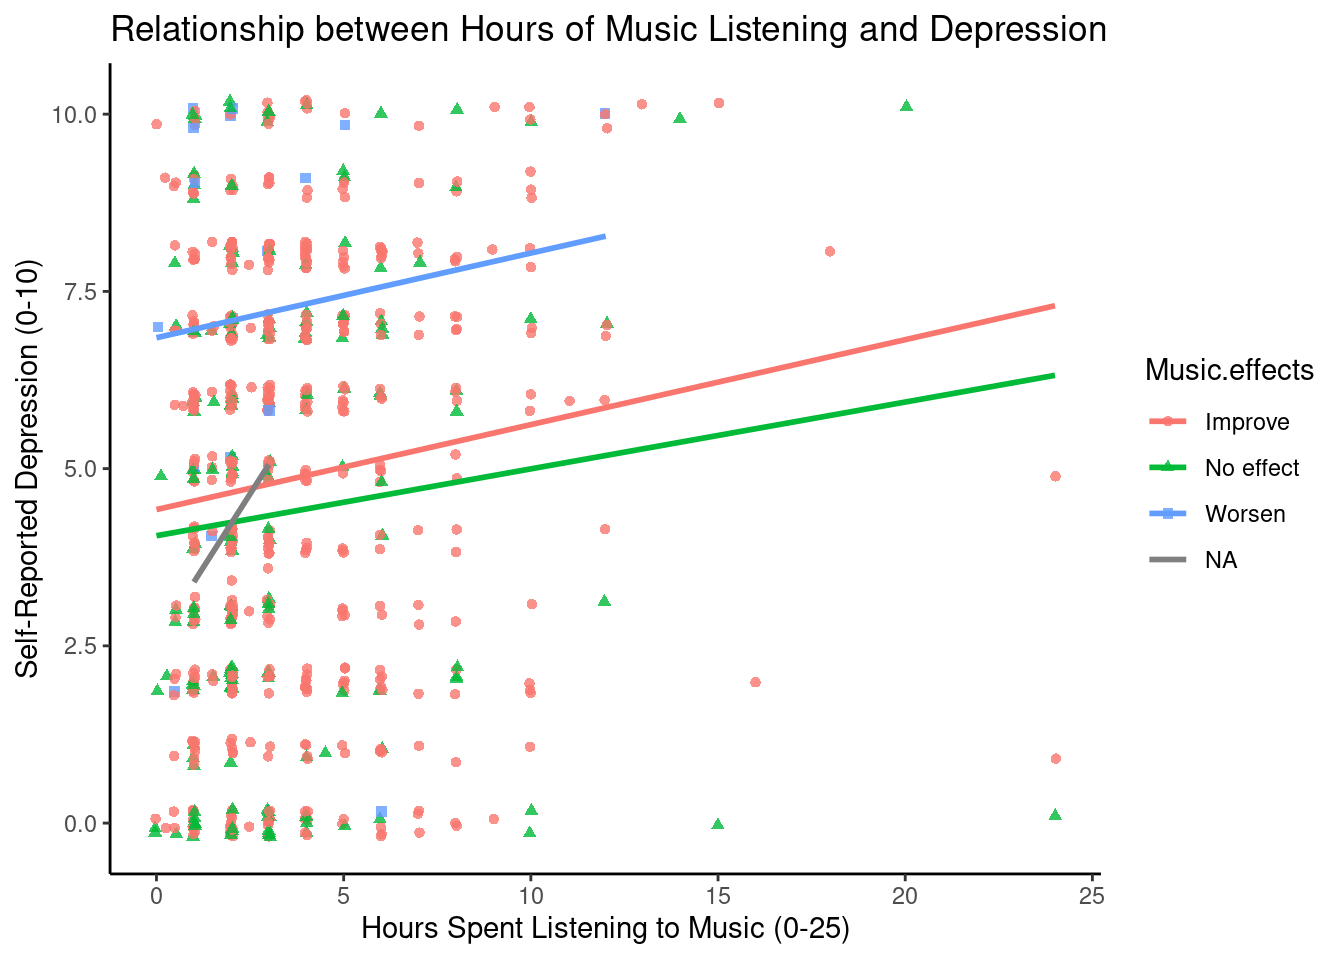
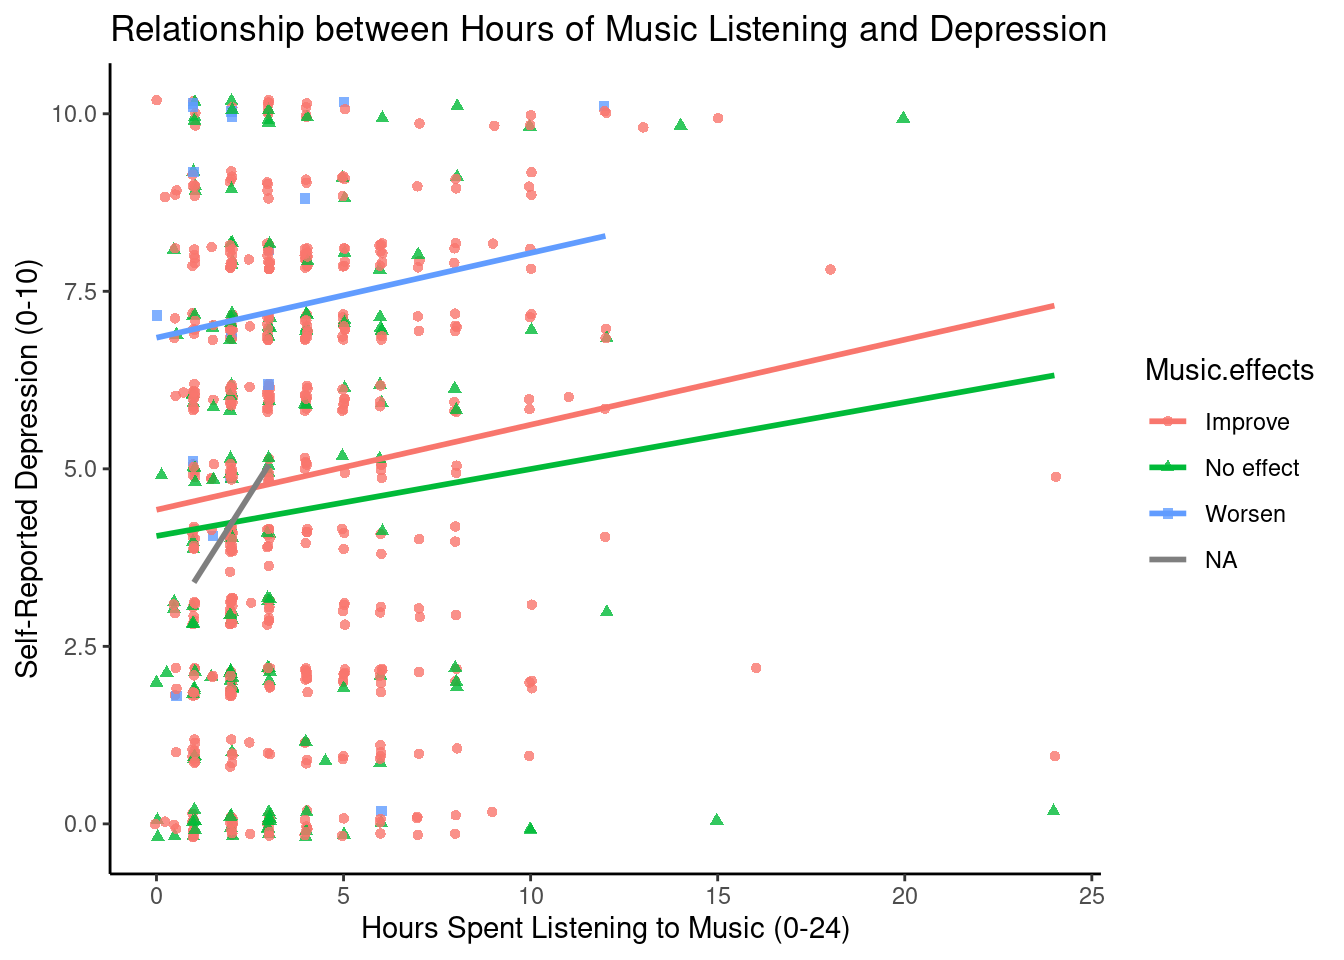
the final FINAL commit :)

diff --git a/docs/posts/my_first_post/index.html b/docs/posts/my_first_post/index.html
@@ -153,7 +153,7 @@ pre > code.sourceCode > span > a:first-child::before { text-decoration: underlin
     <div class="quarto-title column-body">
       <h1 class="title">My R Project</h1>
                                 <div class="quarto-categories">
-                <div class="quarto-category">projects</div>
+                <div class="quarto-category">data science projects</div>
               </div>
                   </div>
   </div>
@@ -193,8 +193,8 @@ pre > code.sourceCode > span > a:first-child::before { text-decoration: underlin
 <hr>
 <section id="introduction" class="level1">
 <h1>Introduction</h1>
-<p>This project is focused on the interaction between hours of music spent listening to per day and its impact on multiple mental health categories.</p>
-<p>This project explores the relationship between the amount of time people spend listening to music and various aspects of mental health, including anxiety, depression, obsessive-compulsive disorder (OCD), and insomnia. Understanding these relationships is important because music is widely accessible, non-invasive, and could serve as a simple tool for improving personal well-being. Personally, I find that music can be calming, motivating, or emotionally supportive, which inspires my interest in whether these effects are measurable across different mental health categories.</p>
+<p>This project focuses on the interaction between the hours of music spent listening to per day and its impact on multiple mental health categories.</p>
+<p>This project explores the relationship between the amount of time people spend listening to music and various aspects of mental health, including anxiety, depression, obsessive-compulsive disorder (OCD), and insomnia. Understanding these relationships is important because music is widely accessible, non-invasive, and could serve as a simple tool for improving personal well-being. I find that music can be calming, motivating, and emotionally supportive, which inspired my interest in determining whether these effects are measurable across different mental health categories.</p>
 <p><u>The following research questions will be addressed:</u></p>
 <ul>
 <li><p><em>Does the amount of time spent listening to music relate to anxiety levels?</em></p></li>
@@ -215,22 +215,22 @@ pre > code.sourceCode > span > a:first-child::before { text-decoration: underlin
 <h1>Approach</h1>
 <section id="data-set-overview" class="level3">
 <h3 class="anchored" data-anchor-id="data-set-overview">Data Set Overview:</h3>
-<p>Data was collected through Kaggle and uploaded by Catherine Rasgaitis via Google Forms. The data collection period ran from August 27, 2022 - November, 2022. There was an overall 736 number of respondents for the survey. For population, it was open to all ages and locations worldwide.</p>
-<p>Responses were gathered through an online survey posted in Reddit forums, Discord servers and other unnamed social media platforms. Physical promotion, such as posters and business cards, were also used in public spaces such as libraries and parks. The survey was designed to be brief to encourage completion, with more complex questions (e.g., beats per minute) marked as optional.</p>
+<p>Data was collected through Google Forms and uploaded to <a href="https://www.kaggle.com/datasets/catherinerasgaitis/mxmh-survey-results/data">Kaggle</a>. The data collection period ran from August 27 2022, to November 2022. There were a overall 736 number of respondents for the survey. Regarding population, it was open to all ages and locations worldwide.</p>
+<p>Responses were gathered through an online survey posted in Reddit forums, Discord servers, and other unnamed social media platforms. Physical promotion, such as posters and business cards, was also used in public spaces such as libraries and parks. The survey was designed to be brief to encourage completion, with more complex questions (e.g., beats per minute) marked as optional.</p>
 <p><u>Key Variables:</u></p>
 <ul>
 <li><p>hours.per.day - Number of hours the respondent listens to music per day</p></li>
-<li><p>Music.effects - Whether music improve, worsened, or had no affect on the respondent’s mental health conditions</p></li>
-<li><p>Anxiety - Self-reported levels of anxiety on a scale of 0-10.</p></li>
-<li><p>Depression - Self-reported levels of anxiety on a scale of 0-10.</p></li>
-<li><p>OCD - Self-reported levels of OCD on a scale of 0-10.</p></li>
-<li><p>Insomnia - Self-reported levels of insomnia on a scale of 0-10.</p>
-<p>Notes: This set of data contains self-reported levels of mental health conditions, which may contain subjective bias.</p></li>
+<li><p>Music.effects—whether music improved, worsened, or had no effect on the respondent’s mental health conditions.</p></li>
+<li><p>Anxiety—Self-reported levels of anxiety on a scale of 0-10.</p></li>
+<li><p>Depression—Self-reported levels of depression on a scale of 0-10.</p></li>
+<li><p>OCD—Self-reported levels of obsessive-compulsive disorder (OCD) on a scale of 0-10.</p></li>
+<li><p>Insomnia—Self-reported levels of insomnia on a scale of 0-10.</p>
+<p>Notes: This set of data contains self-reported levels of mental health conditions, which may include subjective bias.</p></li>
 </ul>
 </section>
 <section id="tools" class="level3">
 <h3 class="anchored" data-anchor-id="tools"><strong>Tools</strong></h3>
-<p>For this project, we used R and Quarto. Other website hosting platforms were used, such as GitHub.</p>
+<p>For this project, R and Quarto were used. Other website hosting platforms, such as Github, were used as well.</p>
 </section>
 <section id="approachpredictions" class="level3">
 <h3 class="anchored" data-anchor-id="approachpredictions"><strong>Approach/Predictions</strong></h3>
@@ -254,7 +254,7 @@ pre > code.sourceCode > span > a:first-child::before { text-decoration: underlin
 <span id="cb1-8"><a href="#cb1-8" aria-hidden="true" tabindex="-1"></a>  <span class="fu">geom_point</span>(<span class="at">alpha =</span> <span class="fl">0.8</span>, <span class="at">position =</span> <span class="st">"jitter"</span>) <span class="sc">+</span> <span class="fu">geom_smooth</span>(<span class="at">se=</span> <span class="cn">FALSE</span>, <span class="at">method =</span> <span class="st">"lm"</span>) <span class="sc">+</span> </span>
 <span id="cb1-9"><a href="#cb1-9" aria-hidden="true" tabindex="-1"></a>  <span class="fu">labs</span>(</span>
 <span id="cb1-10"><a href="#cb1-10" aria-hidden="true" tabindex="-1"></a>  <span class="at">title =</span> <span class="st">"Relationship between Hours of Music Listening and Anxiety"</span>,</span>
-<span id="cb1-11"><a href="#cb1-11" aria-hidden="true" tabindex="-1"></a>  <span class="at">x =</span> <span class="st">"Hours Spent Listening to Music (0-25)"</span>,</span>
+<span id="cb1-11"><a href="#cb1-11" aria-hidden="true" tabindex="-1"></a>  <span class="at">x =</span> <span class="st">"Hours Spent Listening to Music (0-24)"</span>,</span>
 <span id="cb1-12"><a href="#cb1-12" aria-hidden="true" tabindex="-1"></a>  <span class="at">y =</span> <span class="st">"Self-Reported Anxiety (0-10)"</span></span>
 <span id="cb1-13"><a href="#cb1-13" aria-hidden="true" tabindex="-1"></a>) <span class="sc">+</span> <span class="fu">theme_classic</span>()</span></code><button title="Copy to Clipboard" class="code-copy-button"><i class="bi"></i></button></pre></div>
 <div class="cell-output-display">
@@ -281,7 +281,7 @@ pre > code.sourceCode > span > a:first-child::before { text-decoration: underlin
 <span id="cb2-8"><a href="#cb2-8" aria-hidden="true" tabindex="-1"></a>  <span class="fu">geom_point</span>(<span class="at">alpha =</span> <span class="fl">0.8</span>, <span class="at">position =</span> <span class="st">"jitter"</span>) <span class="sc">+</span> <span class="fu">geom_smooth</span>(<span class="at">se=</span> <span class="cn">FALSE</span>, <span class="at">method =</span> <span class="st">"lm"</span>) <span class="sc">+</span> </span>
 <span id="cb2-9"><a href="#cb2-9" aria-hidden="true" tabindex="-1"></a>  <span class="fu">labs</span>(</span>
 <span id="cb2-10"><a href="#cb2-10" aria-hidden="true" tabindex="-1"></a>  <span class="at">title =</span> <span class="st">"Relationship between Hours of Music Listening and Depression"</span>,</span>
-<span id="cb2-11"><a href="#cb2-11" aria-hidden="true" tabindex="-1"></a>  <span class="at">x =</span> <span class="st">"Hours Spent Listening to Music (0-25)"</span>,</span>
+<span id="cb2-11"><a href="#cb2-11" aria-hidden="true" tabindex="-1"></a>  <span class="at">x =</span> <span class="st">"Hours Spent Listening to Music (0-24)"</span>,</span>
 <span id="cb2-12"><a href="#cb2-12" aria-hidden="true" tabindex="-1"></a>  <span class="at">y =</span> <span class="st">"Self-Reported Depression (0-10)"</span></span>
 <span id="cb2-13"><a href="#cb2-13" aria-hidden="true" tabindex="-1"></a>) <span class="sc">+</span> <span class="fu">theme_classic</span>()</span></code><button title="Copy to Clipboard" class="code-copy-button"><i class="bi"></i></button></pre></div>
 <div class="cell-output-display">
@@ -308,7 +308,7 @@ pre > code.sourceCode > span > a:first-child::before { text-decoration: underlin
 <span id="cb3-8"><a href="#cb3-8" aria-hidden="true" tabindex="-1"></a>  <span class="fu">geom_point</span>(<span class="at">alpha =</span> <span class="fl">0.8</span>, <span class="at">position =</span> <span class="st">"jitter"</span>) <span class="sc">+</span> <span class="fu">geom_smooth</span>(<span class="at">se=</span> <span class="cn">FALSE</span>, <span class="at">method =</span> <span class="st">"lm"</span>) <span class="sc">+</span></span>
 <span id="cb3-9"><a href="#cb3-9" aria-hidden="true" tabindex="-1"></a>  <span class="fu">labs</span>(</span>
 <span id="cb3-10"><a href="#cb3-10" aria-hidden="true" tabindex="-1"></a>  <span class="at">title =</span> <span class="st">"Relationship Between Hours of Music Listening and Insomnia"</span>,</span>
-<span id="cb3-11"><a href="#cb3-11" aria-hidden="true" tabindex="-1"></a>  <span class="at">x =</span> <span class="st">"Hours Spent Listening to Music (0-25)"</span>,</span>
+<span id="cb3-11"><a href="#cb3-11" aria-hidden="true" tabindex="-1"></a>  <span class="at">x =</span> <span class="st">"Hours Spent Listening to Music (0-24)"</span>,</span>
 <span id="cb3-12"><a href="#cb3-12" aria-hidden="true" tabindex="-1"></a>  <span class="at">y =</span> <span class="st">"Self-Reported Insomnia (0-10)"</span></span>
 <span id="cb3-13"><a href="#cb3-13" aria-hidden="true" tabindex="-1"></a>) <span class="sc">+</span> <span class="fu">theme_classic</span>()</span></code><button title="Copy to Clipboard" class="code-copy-button"><i class="bi"></i></button></pre></div>
 <div class="cell-output-display">
@@ -319,7 +319,7 @@ pre > code.sourceCode > span > a:first-child::before { text-decoration: underlin
 </div>
 </div>
 </div>
-<p>Conclusion: There’s a negative correlation found between high amount of music listening and lower levels of insomnia.</p>
+<p>Conclusion: A negative correlation is found between a high amount of music listening and lower levels of insomnia.</p>
 </section>
 <section id="question-4-does-the-amount-of-time-spend-listening-to-music-relate-to-ocd-levels" class="level4">
 <h4 class="anchored" data-anchor-id="question-4-does-the-amount-of-time-spend-listening-to-music-relate-to-ocd-levels">Question 4: Does the amount of time spend listening to music relate to OCD levels?</h4>
@@ -335,7 +335,7 @@ pre > code.sourceCode > span > a:first-child::before { text-decoration: underlin
 <span id="cb4-8"><a href="#cb4-8" aria-hidden="true" tabindex="-1"></a>  <span class="fu">geom_point</span>(<span class="at">alpha =</span> <span class="fl">0.8</span>, <span class="at">position =</span> <span class="st">"jitter"</span>) <span class="sc">+</span> <span class="fu">geom_smooth</span>(<span class="at">se=</span> <span class="cn">FALSE</span>, <span class="at">method =</span> <span class="st">"lm"</span>) <span class="sc">+</span> </span>
 <span id="cb4-9"><a href="#cb4-9" aria-hidden="true" tabindex="-1"></a>  <span class="fu">labs</span>(</span>
 <span id="cb4-10"><a href="#cb4-10" aria-hidden="true" tabindex="-1"></a>  <span class="at">title =</span> <span class="st">"Relationship between Hours of Music Listening and OCD"</span>,</span>
-<span id="cb4-11"><a href="#cb4-11" aria-hidden="true" tabindex="-1"></a>  <span class="at">x =</span> <span class="st">"Hours Spent Listening to Music (0-25)"</span>,</span>
+<span id="cb4-11"><a href="#cb4-11" aria-hidden="true" tabindex="-1"></a>  <span class="at">x =</span> <span class="st">"Hours Spent Listening to Music (0-24)"</span>,</span>
 <span id="cb4-12"><a href="#cb4-12" aria-hidden="true" tabindex="-1"></a>  <span class="at">y =</span> <span class="st">"Self-Reported OCD (0-10)"</span></span>
 <span id="cb4-13"><a href="#cb4-13" aria-hidden="true" tabindex="-1"></a>) <span class="sc">+</span> <span class="fu">theme_classic</span>(<span class="at">base_size =</span> <span class="dv">12</span>)</span></code><button title="Copy to Clipboard" class="code-copy-button"><i class="bi"></i></button></pre></div>
 <div class="cell-output-display">
@@ -346,7 +346,7 @@ pre > code.sourceCode > span > a:first-child::before { text-decoration: underlin
 </div>
 </div>
 </div>
-<p>Conclusion: There’s a subtle positive correlation found between higher amount of music listening and worsened levels of OCD levels.</p>
+<p>Conclusion: There’s no correlation found between a higher amount of music listening and worsened levels of OCD.</p>
 <hr>
 </section>
 </section>

diff --git a/docs/index.html b/docs/index.html
@@ -192,7 +192,7 @@ window.Quarto = {
 <!-- margin-sidebar -->
     <div id="quarto-margin-sidebar" class="sidebar margin-sidebar">
         
-    <h5 class="quarto-listing-category-title">Categories</h5><div class="quarto-listing-category category-default"><div class="category" data-category="">All <span class="quarto-category-count">(1)</span></div><div class="category" data-category="cHJvamVjdHM=">projects <span class="quarto-category-count">(1)</span></div></div></div>
+    <h5 class="quarto-listing-category-title">Categories</h5><div class="quarto-listing-category category-default"><div class="category" data-category="">All <span class="quarto-category-count">(1)</span></div><div class="category" data-category="ZGF0YSUyMHNjaWVuY2UlMjBwcm9qZWN0cw==">data science projects <span class="quarto-category-count">(1)</span></div></div></div>
 <!-- main -->
 <main class="content quarto-banner-title-block column-page-left" id="quarto-document-content">
 
@@ -208,7 +208,7 @@ window.Quarto = {
 
 <div class="quarto-listing quarto-listing-container-default" id="listing-listing">
 <div class="list quarto-listing-default">
-<div class="quarto-post image-right" data-index="0" data-categories="cHJvamVjdHM=" data-listing-date-sort="1754611200000" data-listing-file-modified-sort="1754671069380" data-listing-date-modified-sort="NaN" data-listing-reading-time-sort="6" data-listing-word-count-sort="1071">
+<div class="quarto-post image-right" data-index="0" data-categories="ZGF0YSUyMHNjaWVuY2UlMjBwcm9qZWN0cw==" data-listing-date-sort="1754611200000" data-listing-file-modified-sort="1754947350199" data-listing-date-modified-sort="NaN" data-listing-reading-time-sort="6" data-listing-word-count-sort="1061">
 <div class="thumbnail"><a href="./posts/my_first_post/index.html" class="no-external">
 
 <p class="card-img-top"><img src="posts/my_first_post/index_files/figure-html/unnamed-chunk-1-1.png"  class="thumbnail-image card-img"/></p>
@@ -220,11 +220,11 @@ window.Quarto = {
 </h3>
 <div class="listing-categories">
 
-<div class="listing-category" onclick="window.quartoListingCategory('cHJvamVjdHM='); return false;">projects</div>
+<div class="listing-category" onclick="window.quartoListingCategory('ZGF0YSUyMHNjaWVuY2UlMjBwcm9qZWN0cw=='); return false;">data science projects</div>
 
 </div>
 <div class="delink listing-description"><a href="./posts/my_first_post/index.html" class="no-external">
-This project is focused on the interaction between hours of music spent listening to per day and its impact on multiple mental health categories.
+This project focuses on the interaction between the hours of music spent listening to per day and its impact on multiple mental health categories.
 </a></div>
 </div>
 <div class="metadata">
